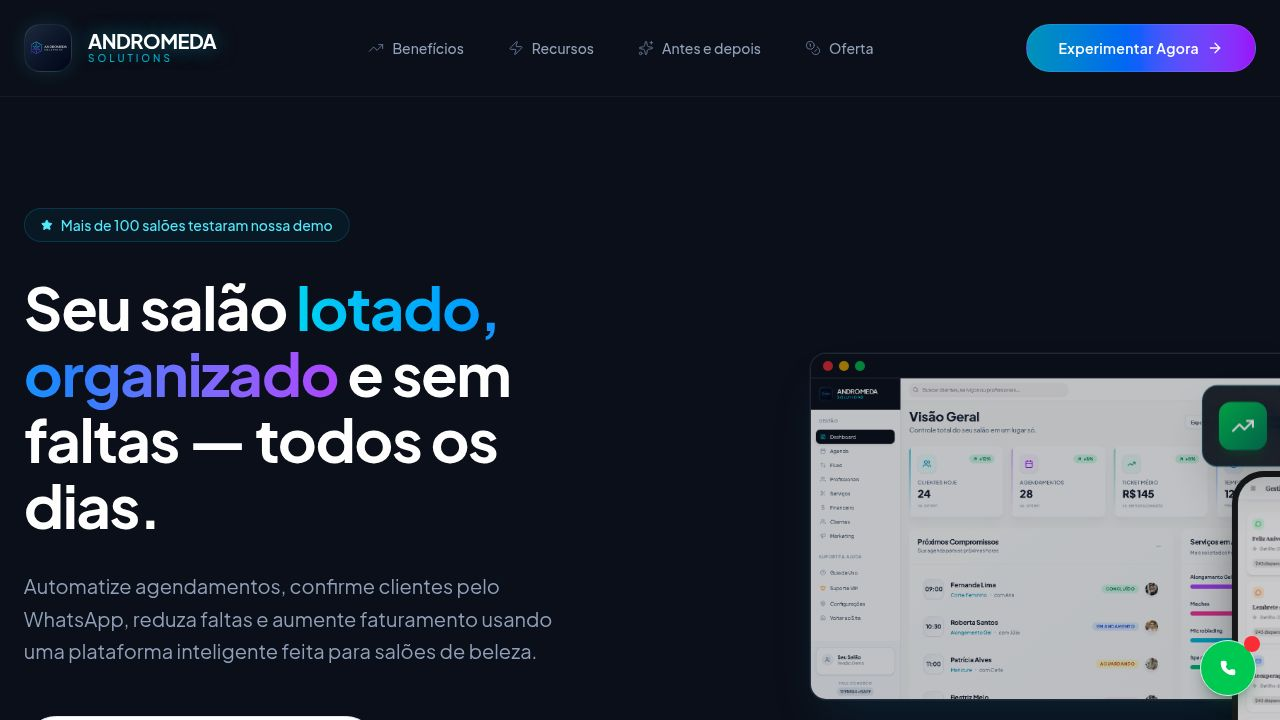
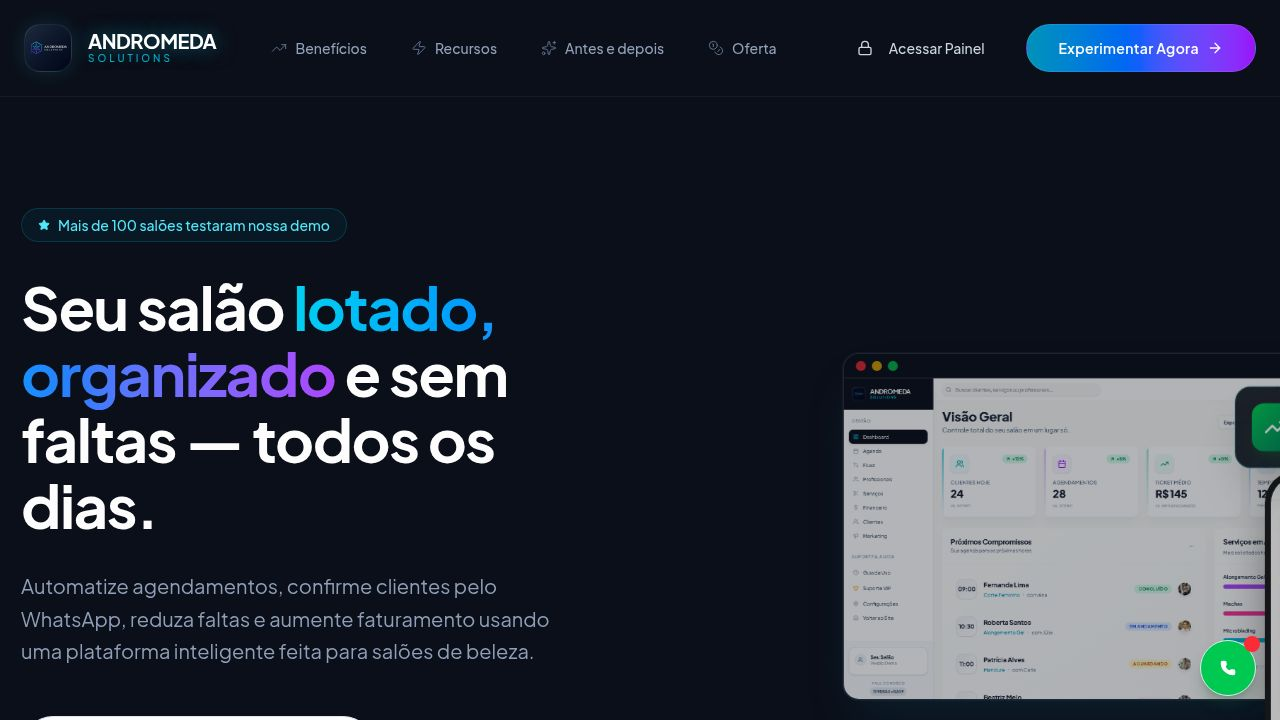
Add login button to landing page and create a client login portal
Adds a new route for `/login` and a `Login` component to handle user authentication. Also, modifies the `Landing` page to include a "Acessar Painel" button that redirects to the new login route.

Replit-Commit-Author: Agent
Replit-Commit-Session-Id: 0f180239-63e3-408a-b53a-f3bca2402605
Replit-Commit-Checkpoint-Type: full_checkpoint
Replit-Commit-Event-Id: dbeba7b3-9b9e-48e8-98c6-8a9395b206cd
Replit-Commit-Screenshot-Url: https://storage.googleapis.com/screenshot-production-us-central1/95e121ca-f6c3-4c40-9d34-b7c881a3f90b/0f180239-63e3-408a-b53a-f3bca2402605/q1IqWB6
Replit-Helium-Checkpoint-Created: true

diff --git a/client/src/pages/Login.tsx b/client/src/pages/Login.tsx
@@ -1,0 +1,141 @@
+import { useState } from "react";
+import { useLocation } from "wouter";
+import { Button } from "@/components/ui/button";
+import { Input } from "@/components/ui/input";
+import { Label } from "@/components/ui/label";
+import { Lock, User, ArrowLeft, Eye, EyeOff } from "lucide-react";
+import andromedaLogo from "@/assets/andromeda_logo_new.png";
+import { Link } from "wouter";
+
+export default function Login() {
+  const [, setLocation] = useLocation();
+  const [username, setUsername] = useState("");
+  const [password, setPassword] = useState("");
+  const [showPassword, setShowPassword] = useState(false);
+  const [error, setError] = useState("");
+  const [isLoading, setIsLoading] = useState(false);
+
+  const handleSubmit = async (e: React.FormEvent) => {
+    e.preventDefault();
+    setError("");
+    setIsLoading(true);
+
+    await new Promise(resolve => setTimeout(resolve, 800));
+
+    if (username === "andromedateste123" && password === "andromedasolutions123") {
+      localStorage.setItem("isAuthenticated", "true");
+      setLocation("/app");
+    } else {
+      setError("Login ou senha incorretos. Tente novamente.");
+    }
+    
+    setIsLoading(false);
+  };
+
+  return (
+    <div className="min-h-screen bg-[#0B0F19] flex items-center justify-center relative overflow-hidden">
+      <div className="absolute top-0 left-0 w-full h-full overflow-hidden -z-10 pointer-events-none">
+        <div className="absolute top-[-10%] right-[-5%] w-[500px] h-[500px] bg-blue-600/20 rounded-full blur-[120px]" />
+        <div className="absolute bottom-[10%] left-[-10%] w-[600px] h-[600px] bg-purple-600/10 rounded-full blur-[120px]" />
+        <div className="absolute top-[40%] left-[30%] w-[300px] h-[300px] bg-cyan-500/10 rounded-full blur-[80px]" />
+      </div>
+
+      <Link href="/">
+        <button className="absolute top-6 left-6 flex items-center gap-2 text-slate-400 hover:text-white transition-colors group">
+          <ArrowLeft className="h-5 w-5 group-hover:-translate-x-1 transition-transform" />
+          <span className="text-sm font-medium">Voltar ao site</span>
+        </button>
+      </Link>
+
+      <div className="w-full max-w-md mx-4">
+        <div className="bg-slate-900/50 backdrop-blur-xl border border-white/10 rounded-3xl p-8 shadow-2xl">
+          <div className="flex flex-col items-center mb-8">
+            <div className="h-16 w-16 rounded-2xl overflow-hidden border border-white/10 p-2 bg-gradient-to-br from-slate-800 to-slate-950 mb-4 shadow-lg shadow-cyan-900/20">
+              <img src={andromedaLogo} alt="Andromeda Solutions" className="h-full w-full object-contain" />
+            </div>
+            <h1 className="text-2xl font-bold text-white tracking-tight">Painel do Cliente</h1>
+            <p className="text-slate-400 text-sm mt-1">Acesse o sistema Andromeda</p>
+          </div>
+
+          <form onSubmit={handleSubmit} className="space-y-6">
+            <div className="space-y-2">
+              <Label htmlFor="username" className="text-slate-300 text-sm font-medium">
+                Login
+              </Label>
+              <div className="relative">
+                <User className="absolute left-3 top-1/2 -translate-y-1/2 h-5 w-5 text-slate-500" />
+                <Input
+                  id="username"
+                  type="text"
+                  placeholder="Digite seu login"
+                  value={username}
+                  onChange={(e) => setUsername(e.target.value)}
+                  className="pl-10 h-12 bg-slate-800/50 border-slate-700 text-white placeholder:text-slate-500 focus:border-cyan-500 focus:ring-cyan-500/20 rounded-xl"
+                  data-testid="input-username"
+                />
+              </div>
+            </div>
+
+            <div className="space-y-2">
+              <Label htmlFor="password" className="text-slate-300 text-sm font-medium">
+                Senha
+              </Label>
+              <div className="relative">
+                <Lock className="absolute left-3 top-1/2 -translate-y-1/2 h-5 w-5 text-slate-500" />
+                <Input
+                  id="password"
+                  type={showPassword ? "text" : "password"}
+                  placeholder="Digite sua senha"
+                  value={password}
+                  onChange={(e) => setPassword(e.target.value)}
+                  className="pl-10 pr-10 h-12 bg-slate-800/50 border-slate-700 text-white placeholder:text-slate-500 focus:border-cyan-500 focus:ring-cyan-500/20 rounded-xl"
+                  data-testid="input-password"
+                />
+                <button
+                  type="button"
+                  onClick={() => setShowPassword(!showPassword)}
+                  className="absolute right-3 top-1/2 -translate-y-1/2 text-slate-500 hover:text-slate-300 transition-colors"
+                  data-testid="button-toggle-password"
+                >
+                  {showPassword ? <EyeOff className="h-5 w-5" /> : <Eye className="h-5 w-5" />}
+                </button>
+              </div>
+            </div>
+
+            {error && (
+              <div className="p-3 rounded-xl bg-red-500/10 border border-red-500/20 text-red-400 text-sm text-center" data-testid="text-error">
+                {error}
+              </div>
+            )}
+
+            <Button
+              type="submit"
+              disabled={isLoading || !username || !password}
+              className="w-full h-12 rounded-xl bg-gradient-to-r from-cyan-600 via-blue-600 to-purple-600 text-white font-semibold hover:shadow-[0_0_30px_-5px_rgba(34,211,238,0.4)] hover:scale-[1.02] transition-all duration-300 disabled:opacity-50 disabled:cursor-not-allowed disabled:hover:scale-100"
+              data-testid="button-login"
+            >
+              {isLoading ? (
+                <div className="flex items-center gap-2">
+                  <div className="h-5 w-5 border-2 border-white/30 border-t-white rounded-full animate-spin" />
+                  Entrando...
+                </div>
+              ) : (
+                "Entrar"
+              )}
+            </Button>
+          </form>
+
+          <div className="mt-8 pt-6 border-t border-white/5 text-center">
+            <p className="text-slate-500 text-xs">
+              Precisa de ajuda? Entre em contato pelo WhatsApp
+            </p>
+          </div>
+        </div>
+
+        <p className="text-center text-slate-600 text-xs mt-6">
+          © 2024 Andromeda Solutions. Todos os direitos reservados.
+        </p>
+      </div>
+    </div>
+  );
+}

diff --git a/client/src/pages/Landing.tsx b/client/src/pages/Landing.tsx
@@ -105,6 +105,16 @@ export default function Landing() {
 
           {/* CTA Right */}
           <div className="hidden md:flex items-center gap-4">
+            <Link href="/login">
+              <Button 
+                variant="ghost"
+                className="h-12 px-6 rounded-full text-slate-300 hover:text-white hover:bg-white/10 font-medium transition-all duration-300"
+                data-testid="button-login-header"
+              >
+                <Lock className="w-4 h-4 mr-2" />
+                Acessar Painel
+              </Button>
+            </Link>
             <Link href="/dashboard">
               <Button 
                 onClick={() => analytics.clickCTA('header', 'Experimentar Agora')}

diff --git a/client/src/App.tsx b/client/src/App.tsx
@@ -25,12 +25,14 @@ import AppMarketing from "@/pages/app/AppMarketing";
 import AppFinance from "@/pages/app/AppFinance";
 import AppClients from "@/pages/app/AppClients";
 import AppMiniSite from "@/pages/app/AppMiniSite";
+import Login from "@/pages/Login";
 
 function Router() {
   return (
     <Switch>
       {/* Landing page e demo de vendas */}
       <Route path="/" component={Landing} />
+      <Route path="/login" component={Login} />
       <Route path="/dashboard" component={Dashboard} />
       <Route path="/agenda" component={Agenda} />
       <Route path="/team" component={Team} />
